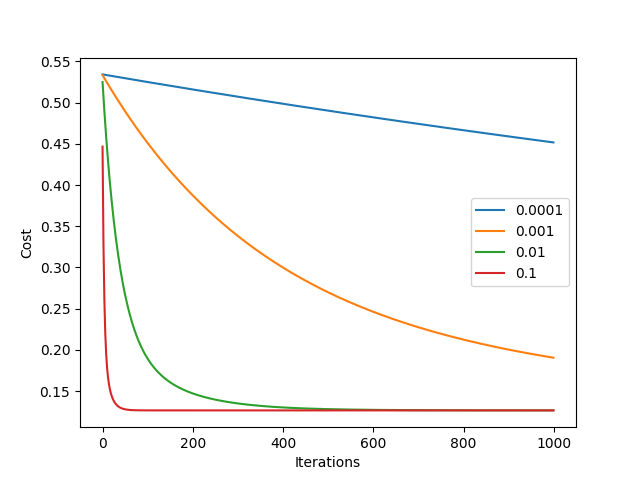
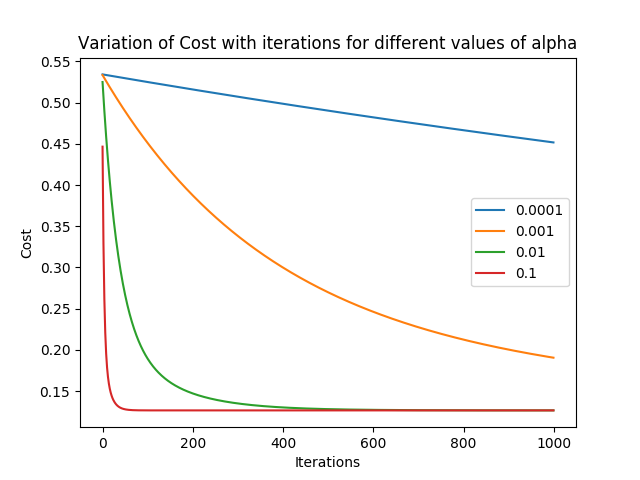
Used optimum alpha for ridge regression

Changed region(s): [[0.125, 0.0625, 0.9062, 0.125]]

diff --git a/mvlr.py b/mvlr.py
@@ -104,6 +104,8 @@ theta = np.zeros([1,trainX.shape[1]],dtype=np.object_)
 iters = 1000
 
 ALPHA = [0.0001,0.001,0.01,0.1]
+minerr = 999
+optalpha = 0
 for alpha in ALPHA:
     theta = np.zeros([1,trainX.shape[1]],dtype=np.object_)
     cost,thita = gradientDescent(trainX,trainY,theta,iters,alpha)
@@ -114,14 +116,18 @@ for alpha in ALPHA:
 
     print("For alpha = ",alpha)
     print("Theta : ",thita)
-    print("RMSE = ",getError(prY,testY))
+    err = getError(prY,testY)
+    if err < minerr:
+        minerr = err
+        optalpha = alpha
+    print("RMSE = ",err)
 
 print("\n")
 
 lamdas = [0,1,10,100]
 
 for lamda in lamdas:
-    c,g = gdRegularized(trainX,trainY,theta,iters,alpha,lamda)
+    c,g = gdRegularized(trainX,trainY,theta,iters,optalpha,lamda)
 
     prY1 = predict(testX,g)
 
@@ -129,6 +135,7 @@ for lamda in lamdas:
     print("Theta : ",g)
     print("Error = ",getError(prY1,testY))
 
+plt.title('Variation of Cost with iterations for different values of alpha')
 plt.xlabel('Iterations')  
 plt.ylabel('Cost') 
 plt.legend()
